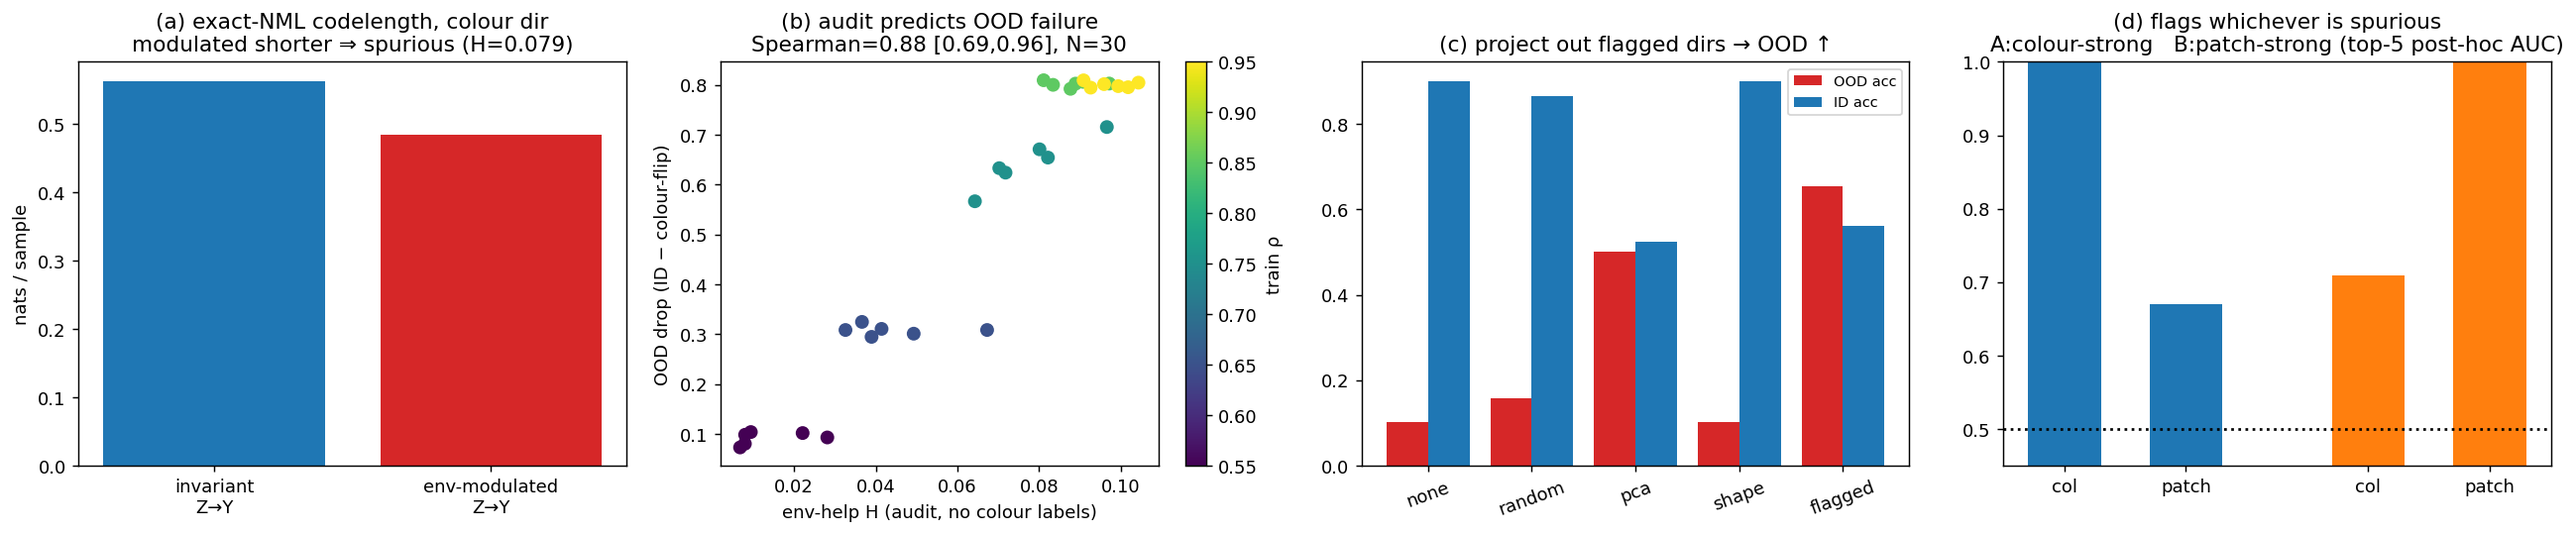
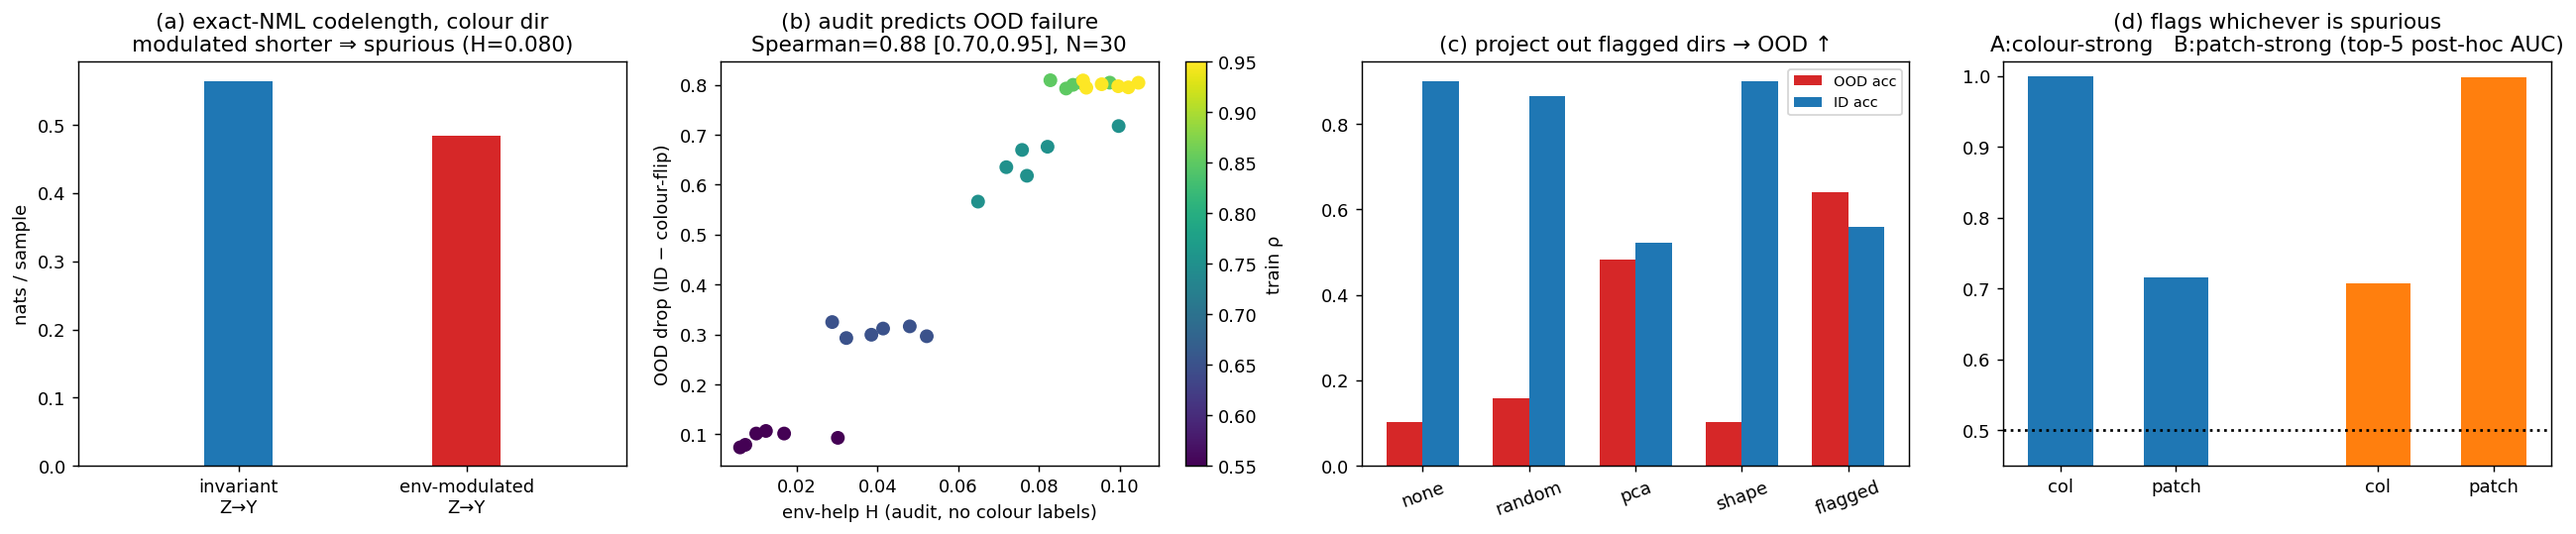
fix: slimmer NML bars; sync numbers to rerun (H=0.080, CI [0.70,0.95], OOD 0.64)

diff --git a/index.html b/index.html
@@ -56,9 +56,9 @@
     <figcaption>
       Audited <b>without colour labels</b> (PCA-basis directions). (a) exact multinomial NML:
       the colour direction's environment-modulated code is shorter than the invariant one
-      (H = 0.079 nats/sample). (b) across <b>30</b> CNNs the in-distribution env-help score predicts
-      the unseen colour-flip accuracy drop (<b>Spearman ρ = 0.88</b>, CI [0.69, 0.96]). (c) projecting
-      out flagged directions raises OOD accuracy <b>0.10 → 0.65</b>, beating random / PCA / shape
+      (H = 0.080 nats/sample). (b) across <b>30</b> CNNs the in-distribution env-help score predicts
+      the unseen colour-flip accuracy drop (<b>Spearman ρ = 0.88</b>, CI [0.70, 0.95]). (c) projecting
+      out flagged directions raises OOD accuracy <b>0.10 → 0.64</b>, beating random / PCA / shape
       controls. (d) with two shortcuts, the audit flags whichever the model relied on.
     </figcaption>
   </figure>

diff --git a/README.md b/README.md
@@ -20,12 +20,12 @@ direction's predictiveness is environment-dependent ⇒ shortcut-like.
 The audit runs **without using the colour labels** (it audits PCA-basis directions):
 
 1. **Exact NML, not BIC.** The colour direction's environment-modulated code is shorter than the
-   invariant one (H = **0.079** nats/sample).
+   invariant one (H = **0.080** nats/sample).
 2. **Predicts OOD failure.** Across **30** independently trained CNNs, the in-distribution env-help
-   score predicts the unseen colour-flip accuracy drop — **Spearman ρ = 0.88**, 95% CI [0.69, 0.96]
-   (Pearson 0.965).
+   score predicts the unseen colour-flip accuracy drop — **Spearman ρ = 0.88**, 95% CI [0.70, 0.95]
+   (Pearson 0.975).
 3. **Mitigation.** Projecting out the flagged directions and refitting only a linear head raises
-   colour-flip OOD accuracy **0.10 → 0.65**, beating random / PCA / shape-direction controls.
+   colour-flip OOD accuracy **0.10 → 0.64**, beating random / PCA / shape-direction controls.
 4. **Not circular.** With two competing shortcuts (colour + a corner patch), the label-free audit
    flags whichever one the model actually relied on (colour-strong ⇒ colour dirs; patch-strong ⇒
    patch dirs).
